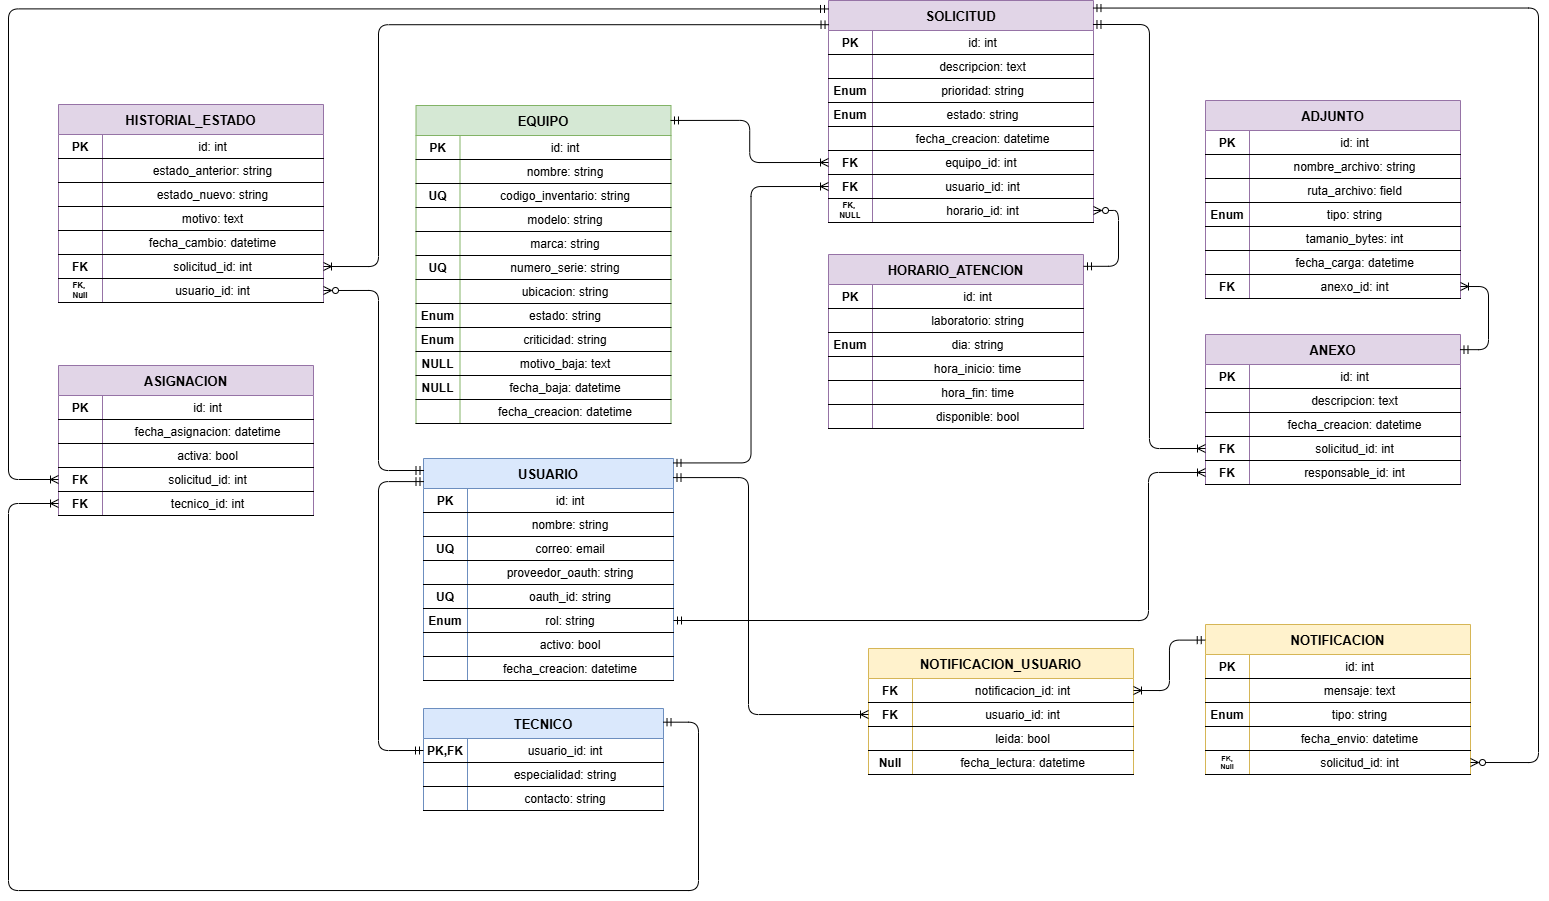
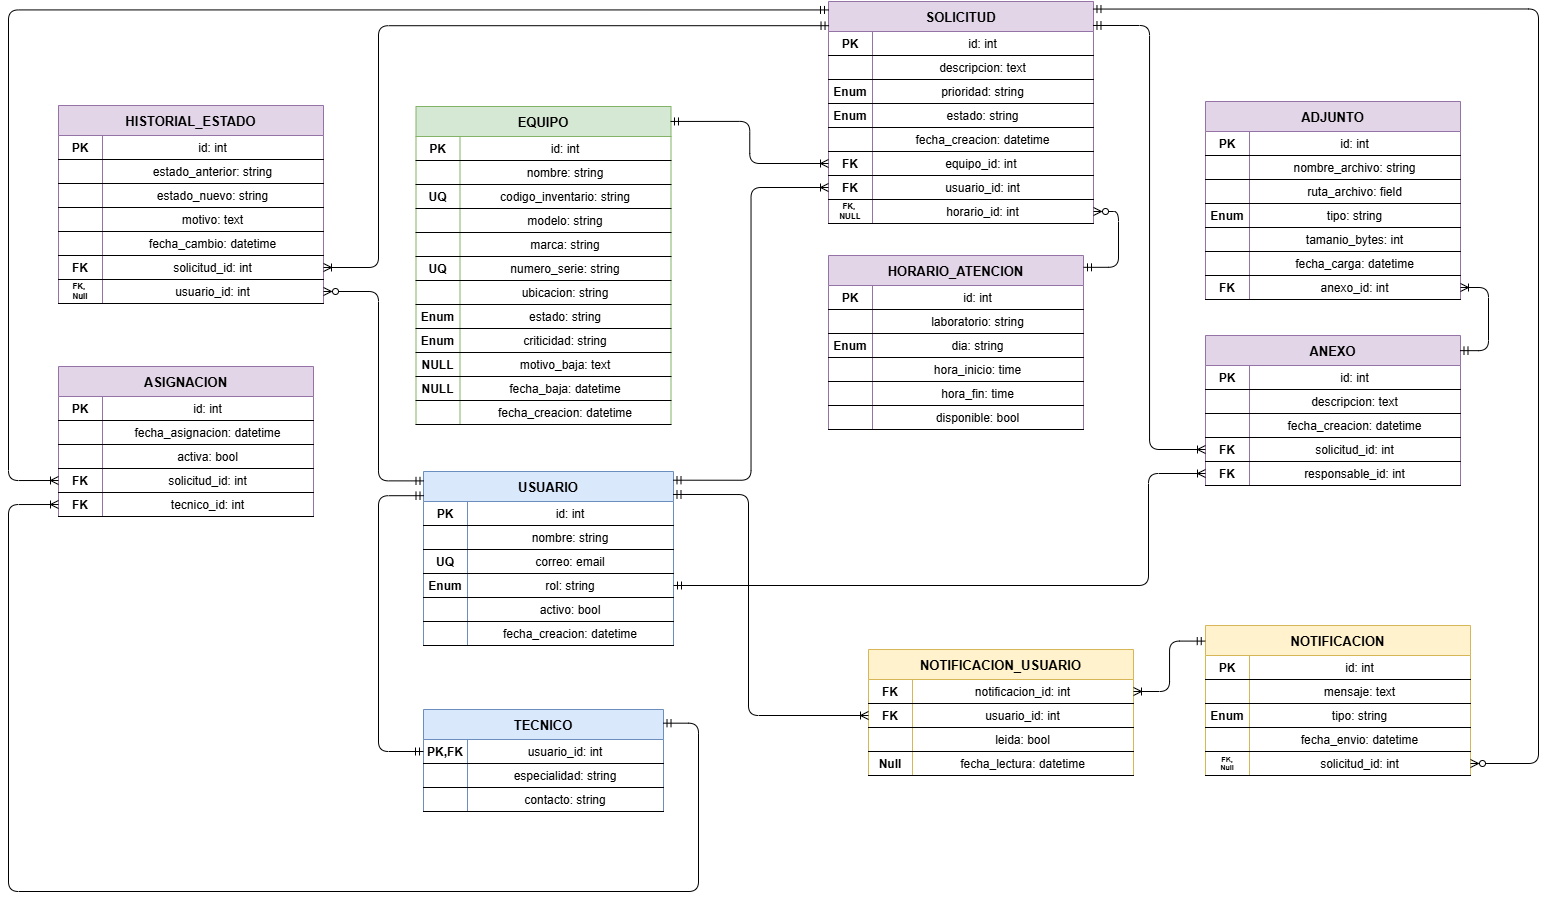
Actualizacion_Sin_Contraseñas

diff --git a/information_app/services/UsuarioServices.py b/information_app/services/UsuarioServices.py
@@ -1,0 +1,65 @@
+from ..repositories.UsuarioRepository import UsuarioRepository
+
+from django.db import transaction
+
+ROLES_VALIDOS = {'docente', 'laboratorista', 'tecnico'}
+CAMPOS_BASE   = {'nombre', 'correo', 'rol'}
+CAMPOS_TECNICO = {'especialidad', 'contacto'}
+
+LONGITUD_NOMBRE_MINIMA = 2
+
+class UsuarioServices:
+    def __init__(self):
+        self.usuario_repository = UsuarioRepository()
+
+    @staticmethod
+    def validar_datos_usuario(datos: dict, campos: list) -> None:
+        for campo in campos:
+            valor = datos.get(campo)
+            if valor is None or str(valor).strip() == '':
+                raise ValueError(f"El campo '{campo}' es obligatorio y no puede estar vacío.")
+
+    @staticmethod
+    def formato_datos_usuario(usuario) -> dict:
+        return {
+            'id':               usuario.id,
+            'nombre':           usuario.nombre,
+            'correo':           usuario.correo,
+            'rol':              usuario.rol,
+            'activo':           usuario.activo,
+            'fecha_creacion':   usuario.fecha_creacion.isoformat(),
+        }
+
+    @transaction.atomic
+    def registrar_usuario(self, datos: dict) -> dict:
+        
+        self.validar_datos_usuario(datos, CAMPOS_BASE)
+
+        nombre = datos['nombre'].strip()
+        correo = datos['correo'].strip().lower()
+        rol = datos['rol'].strip().lower()
+        especialidad = None
+        contacto = None
+
+        if len(nombre) < LONGITUD_NOMBRE_MINIMA:
+            raise ValueError("El nombre debe tener al menos 2 caracteres.")
+        
+        if rol not in ROLES_VALIDOS:
+            raise ValueError(f"El rol '{rol}' no es válido. Roles permitidos: {', '.join(ROLES_VALIDOS)}.")
+        
+        if self.usuario_repository.existe_correo(correo):
+            raise ValueError(f"El correo '{correo}' ya está registrado. Por favor, elige otro.")
+        
+        if rol == 'tecnico':
+            self.validar_datos_usuario(datos, CAMPOS_TECNICO)
+            especialidad = datos['especialidad'].strip()
+            contacto = datos['contacto'].strip()
+
+        usuario = self.usuario_repository.crear_usuario(nombre=nombre, correo=correo, rol=rol)
+
+        if rol == 'tecnico':
+            self.usuario_repository.crear_tecnico(usuario=usuario, especialidad=especialidad, contacto=contacto)
+
+        return self.formato_datos_usuario(usuario)
+
+

diff --git a/information_app/controllers/UsuarioController.py b/information_app/controllers/UsuarioController.py
@@ -1,0 +1,34 @@
+from ..services.UsuarioServices import UsuarioServices
+from django.utils.decorators import method_decorator
+from django.views.decorators.csrf import csrf_exempt
+
+from django.http  import JsonResponse
+from django.views import View
+
+import json
+
+HTTP_400_BAD_REQUEST = 400
+HTTP_201_CREATED = 201
+HTTP_500_INTERNAL_SERVER_ERROR = 500
+
+
+# Se desactiva la proteccion CSRF para esta vista, hasta que se establezca un mecanismo de autenticacion adecuado 
+@method_decorator(csrf_exempt, name='dispatch')
+class RegistrarUsuarioView(View):
+    def post(self, request):
+        try:
+            datos = json.loads(request.body)
+        except(json.JSONDecodeError, UnicodeDecodeError):
+            return JsonResponse({'error': 'El cuerpo de la solicitud debe ser un JSON válido.'}, status=HTTP_400_BAD_REQUEST)
+
+        if not isinstance(datos, dict):
+            return JsonResponse({'error': 'Se esperaba un objeto JSON con los datos de usuario.'}, status=HTTP_400_BAD_REQUEST)
+
+        service = UsuarioServices()
+        try:
+            usuario = service.registrar_usuario(datos)
+            return JsonResponse({'mensaje': 'Usuario registrado exitosamente.', 'usuario': usuario}, status=HTTP_201_CREATED)
+        except ValueError as e:
+            return JsonResponse({'error': str(e)}, status=HTTP_400_BAD_REQUEST)
+        except Exception:
+            return JsonResponse({'error': 'Error interno. Por favor, contáctese con el soporte.'}, status=HTTP_500_INTERNAL_SERVER_ERROR)

diff --git a/information_app/migrations/0002_remove_usuario_oauth_id_and_more.py b/information_app/migrations/0002_remove_usuario_oauth_id_and_more.py
@@ -1,0 +1,21 @@
+# Generated by Django 6.0.5 on 2026-05-29 22:22
+
+from django.db import migrations
+
+
+class Migration(migrations.Migration):
+
+    dependencies = [
+        ('information_app', '0001_initial'),
+    ]
+
+    operations = [
+        migrations.RemoveField(
+            model_name='usuario',
+            name='oauth_id',
+        ),
+        migrations.RemoveField(
+            model_name='usuario',
+            name='proveedor_oauth',
+        ),
+    ]

diff --git a/information_app/repositories/UsuarioRepository.py b/information_app/repositories/UsuarioRepository.py
@@ -1,0 +1,11 @@
+from ..models import Usuario, Tecnico
+
+class UsuarioRepository:
+    def crear_usuario(self, nombre: str, correo: str, rol: str) -> Usuario:
+        return Usuario.objects.create(nombre=nombre, correo=correo, rol=rol)
+    
+    def crear_tecnico(self, usuario: Usuario, especialidad: str, contacto: str) -> Tecnico:
+        return Tecnico.objects.create(usuario=usuario, especialidad=especialidad, contacto=contacto)    
+    
+    def existe_correo(self, correo: str) -> bool:
+        return Usuario.objects.filter(correo=correo).exists()

diff --git a/information_app/urls.py b/information_app/urls.py
@@ -1,0 +1,11 @@
+from django.urls import path
+ 
+from .controllers.UsuarioController import RegistrarUsuarioView
+ 
+app_name = 'usuarios'
+ 
+urlpatterns = [
+    # POST /api/usuarios/registrar/
+    path('registrar/', RegistrarUsuarioView.as_view(), name='registrar'),
+]
+ 

diff --git a/config/urls.py b/config/urls.py
@@ -15,8 +15,9 @@ Including another URLconf
     2. Add a URL to urlpatterns:  path('blog/', include('blog.urls'))
 """
 from django.contrib import admin
-from django.urls import path
+from django.urls import include, path
 
 urlpatterns = [
     path('admin/', admin.site.urls),
+    path('api/usuarios/', include('information_app.urls'))
 ]

diff --git a/information_app/models.py b/information_app/models.py
@@ -15,8 +15,6 @@ class Usuario(models.Model):
     id = models.AutoField(primary_key=True)
     nombre = models.CharField(max_length=100)
     correo = models.EmailField(unique=True)
-    proveedor_oauth = models.CharField(max_length=50)   
-    oauth_id = models.CharField(max_length=255, unique=True) 
     rol = models.CharField(max_length=50, choices=ROL_CHOICES, default='docente')
     activo = models.BooleanField(default=True)
     fecha_creacion = models.DateTimeField(auto_now_add=True)